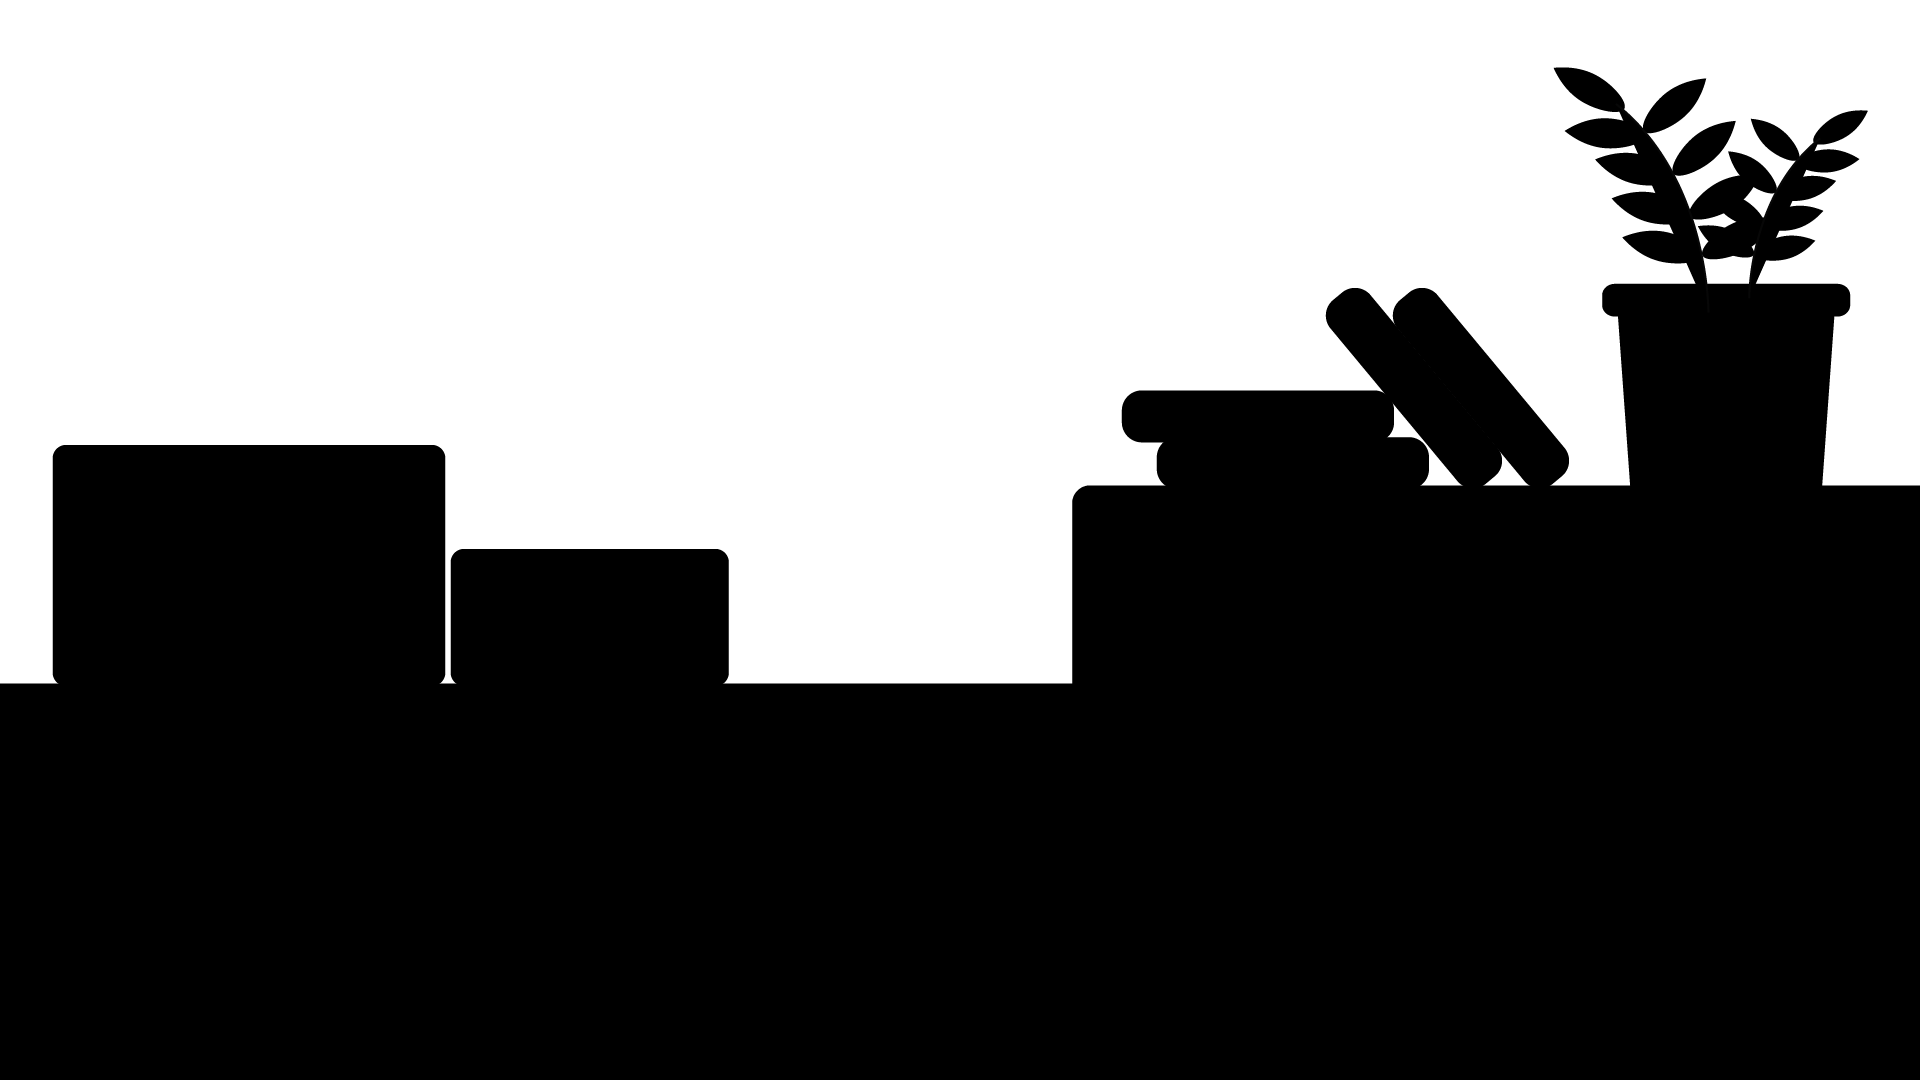
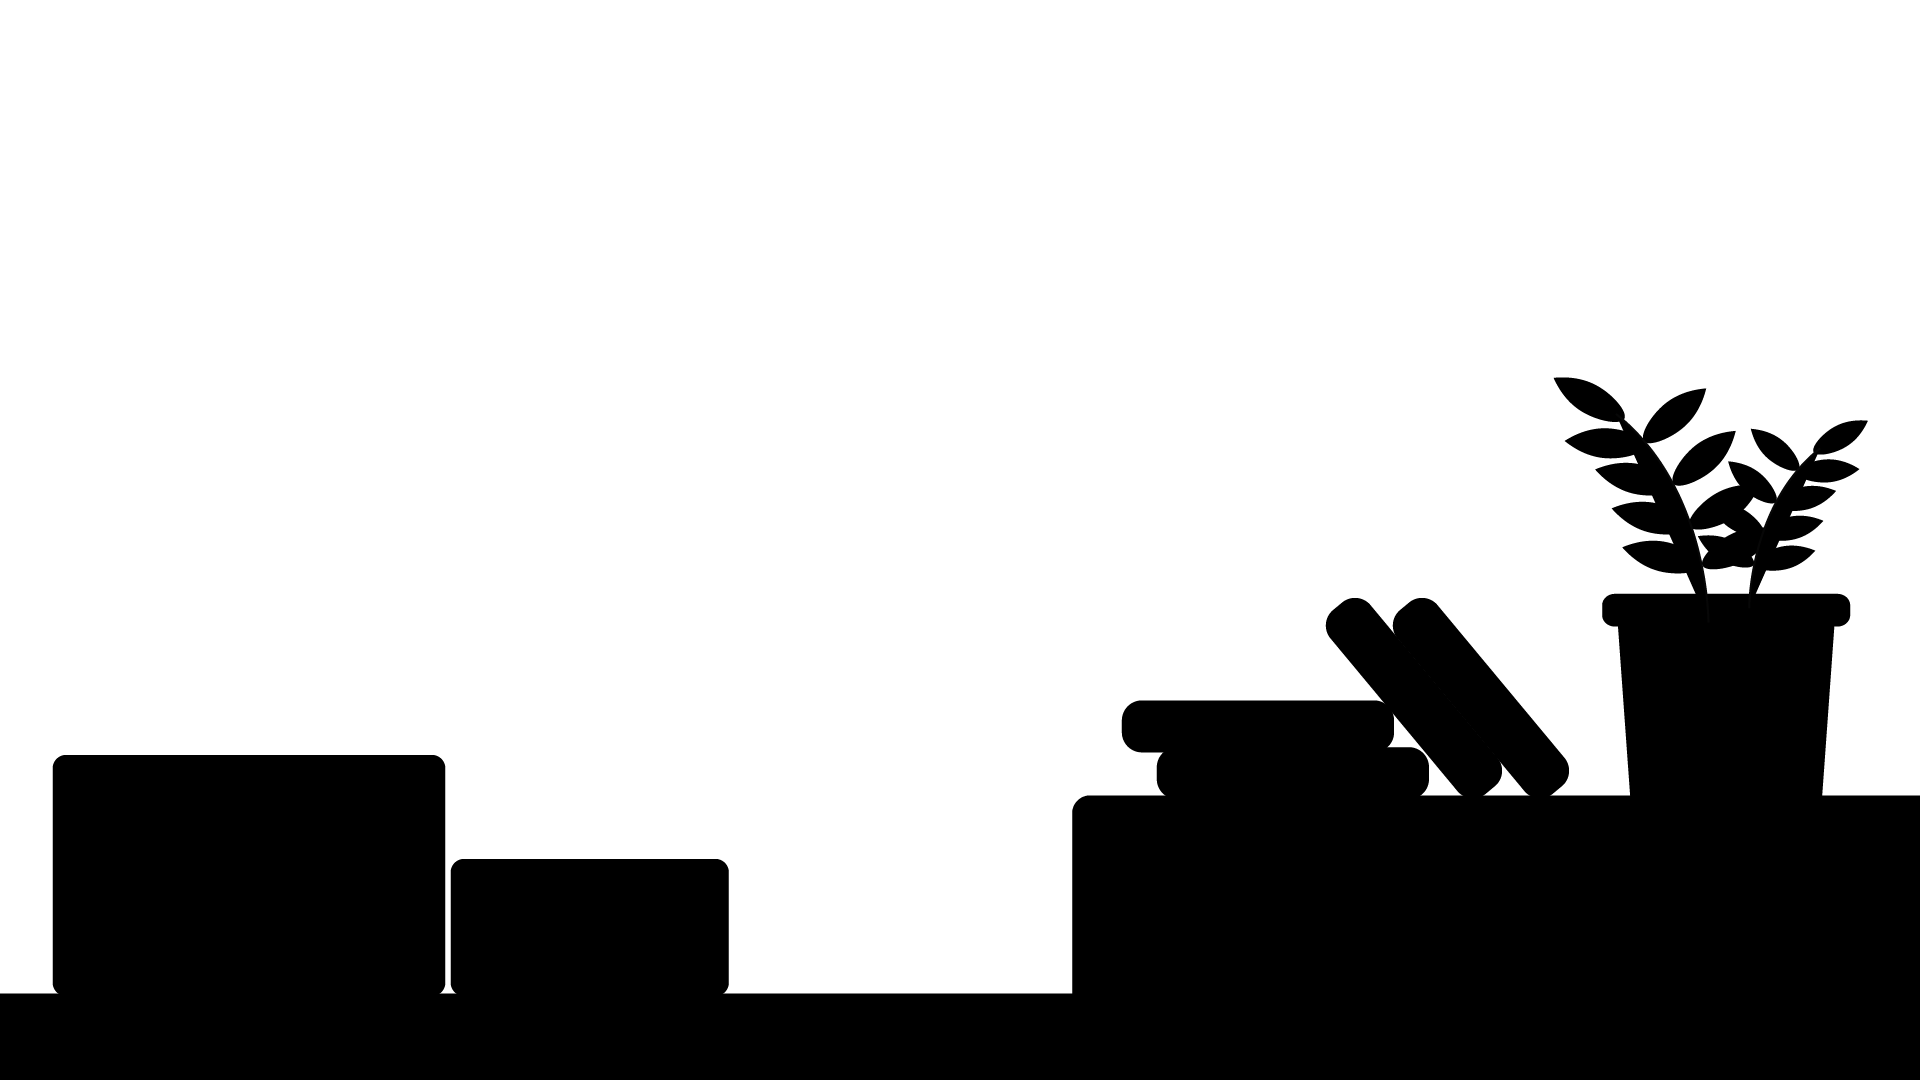
[update] 사진 사이즈 조정중 -moonlight 예나한테 부탁하기 -엽서 위치 조정 -fg 위치 조정

Changed region(s): [[0.0, 0.0611, 1.0, 0.9472], [0.2188, 0.8861, 0.25, 0.9167]]

diff --git a/Exhibition_Page/page2/html/index.html b/Exhibition_Page/page2/html/index.html
@@ -35,23 +35,25 @@
     </div>
 
     <div class="wrapper">
-
         <img src="../images/bg.png" alt="배경" class="img" id="bg" width="100%">
-        <img src="../images/bgWall.png" alt="배경-벽(1)" class="img" id="bg-wall" width="100%">
-        <img src="../images/bgInterior.png" alt="배경-인테리어(2)" class="img" id="bg-interior" width="100%">
         
-        <img src="../images/computer.png" alt="컴퓨터" class="img" id="com" width="100%">
-        <img src="../images/computerLight.png" alt="컴퓨터-스탠드빛" class="img blinking" id="com-light" width="100%">
-        <img src="../images/computerChair.png" alt="컴퓨터-의자" class="img" id="com-chair" width="100%">
+        <div class="small-wrapper">
+            <img src="../images/bgWall.png" alt="배경-벽(1)" class="img" id="bg-wall" width="100%">
+            <img src="../images/bgInterior.png" alt="배경-인테리어(2)" class="img" id="bg-interior" width="100%">
+            
+            <img src="../images/computer.png" alt="컴퓨터" class="img" id="com" width="100%">
         
-        <img src="../images/bgMoonlight.png" alt="달빛" class="img" id="fg-moonlight" width="100%">      <!--fg: front-ground(컴퓨터 앞에 놓이는 배경)-->
-        <img src="../images/bgFront.png" alt="맨 앞" class="img" id="fg" width="100%">
+            <img src="../images/computerLight.png" alt="컴퓨터-스탠드빛" class="img blinking" id="com-light" width="100%">
+            <img src="../images/computerChair.png" alt="컴퓨터-의자" class="img" id="com-chair" width="100%">
+            
+            <img src="../images/bgMoonlight.png" alt="달빛" class="img" id="fg-moonlight" width="100%">      <!--fg: front-ground(컴퓨터 앞에 놓이는 배경)-->
+            <img src="../images/bgFront.png" alt="맨 앞" class="img" id="fg" width="100%">
+
+        </div>
     </div>
 
     <div class="progress">      <!--세로 진행 바-->
         <span class="bar"></span>
     </div>
-
-    <div class="whatsproblem"></div>
 </body>
 </html>

diff --git a/Exhibition_Page/page2/js/page2.js b/Exhibition_Page/page2/js/page2.js
@@ -36,11 +36,11 @@ function scrollFunc(e){
 
     //패럴렉스 핵심
     bg.style.transform = "translate3d(0px ," + scrollTop * .12 +"px, 0px)";
-    bgWall.style.transform = "translate3d(0px ," + scrollTop * .50 +"px , 0px)";
-    bgInterior.style.transform = "translate3d(0px ," + scrollTop * .50 +"px , 0px)";
-    com.style.transform = "translate3d(0px ," + scrollTop * .35 +"px , 0px)";
-    comLight.style.transform = "translate3d(0px ," + scrollTop * .35 +"px , 0px)";
-    comChair.style.transform = "translate3d(0px ," + scrollTop * .45 +"px , 0px)";
+    bgWall.style.transform = "translate3d(0px ," + scrollTop * .35 +"px , 0px)";
+    bgInterior.style.transform = "translate3d(0px ," + scrollTop * .35 +"px , 0px)";
+    com.style.transform = "translate3d(0px ," + scrollTop * .45 +"px , 0px)";
+    comLight.style.transform = "translate3d(0px ," + scrollTop * .47 +"px , 0px)";
+    comChair.style.transform = "translate3d(0px ," + scrollTop * .52 +"px , 0px)";
     fgMoonlight.style.transform = "translate3d(0px ," + scrollTop * .55 +"px , 0px);"
     fg.style.transform = "translate3d(0px ," + scrollTop * 1.5 +"px , 0px)";
 }
@@ -54,9 +54,9 @@ function loop() {
     mx += (x - mx) * speed;
     my += (y - my) * speed;
 
-    // bgWall.style.transform = "translate("+ mx / 30 +"px ," + -my / 30 +"px)";
-    // fgMoonlight.style.transform = "translate("+ mx / 50 +"px ," + -scrollTop * .85 +"px)";
-    // fg.style.transform = "translate("+ -mx / 20 +"px ," + -my / 20 +"px)";
+    bgWall.style.transform = "translate("+ mx / 30 +"px ," + -my / 30 +"px)";
+    fgMoonlight.style.transform = "translate("+ mx / 50 +"px ," + -scrollTop * .85 +"px)";
+    fg.style.transform = "translate("+ -mx / 20 +"px ," + -my / 20 +"px)";
 
     window.requestAnimationFrame(loop);
 }

diff --git a/Exhibition_Page/page2/css/style_page2.css b/Exhibition_Page/page2/css/style_page2.css
@@ -116,9 +116,21 @@ body::-webkit-scrollbar{
     position: relative;
 }
 
-.img{
-    position: absolute;
+#bg{
+    position: relative;
     top: 0;
+    left: 0;
+}
+
+.img:not(:last-child){
+    position: absolute;
+    top: 200px;
+    left: 0;
+}
+
+#fg{
+    position: absolute;
+    bottom:0;
     left: 0;
 }
 
@@ -169,9 +181,3 @@ body::-webkit-scrollbar{
     100% {opacity:1;} 
 }
 /*깜빡이는 효과 끝*/
-
-.whatsproblem{
-    background-color: black;
-    width: 100%;
-    height: 400px;
-}
